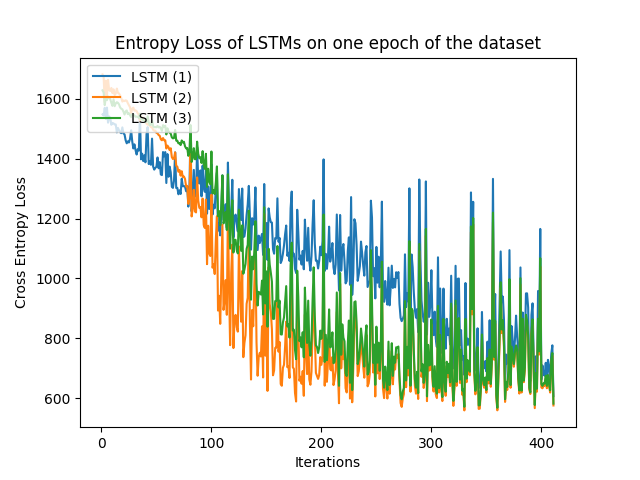
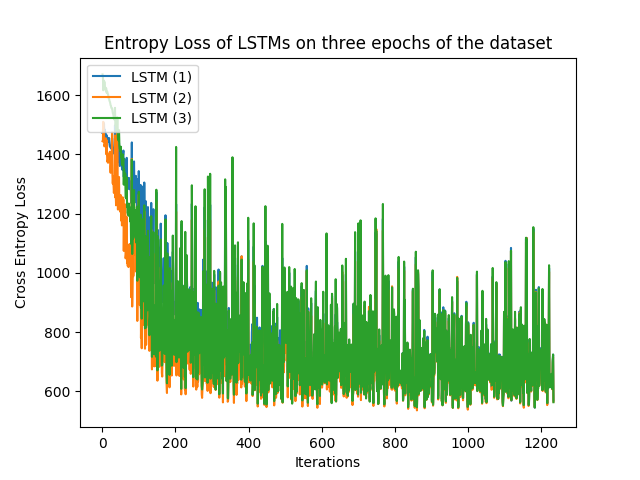
experiments with 3 epochs

diff --git a/lstm2.py b/lstm2.py
@@ -47,7 +47,7 @@ hidden2 = (autograd.Variable(torch.randn(1, 1, 9)),
 
 loss = 0
 loss_array = []
-for epoch in xrange(1):
+for epoch in xrange(3):
 	# Note: reset loss such that doesn't accumulate after each epoch
 	for sequence in xrange(len(train)):
 		inputs = [Variable(torch.Tensor(x)) for x in train[sequence][0]]
@@ -68,3 +68,4 @@ for epoch in xrange(1):
 
 np.save('lstm2_loss.npy',loss_array)
 print 'Done 2'
+torch.save(model.state_dict(), "lstm2.model")

diff --git a/lstm3.py b/lstm3.py
@@ -53,7 +53,7 @@ hidden3 = (autograd.Variable(torch.randn(1, 1, 9)),
 
 loss = 0
 loss_array = []
-for epoch in xrange(1):
+for epoch in xrange(3):
 	# Note: reset loss such that doesn't accumulate after each epoch
 	for sequence in xrange(len(train)):
 		inputs = [Variable(torch.Tensor(x)) for x in train[sequence][0]]
@@ -75,3 +75,4 @@ for epoch in xrange(1):
 
 np.save('lstm3_loss.npy',loss_array)
 print 'Done 3'
+torch.save(model.state_dict(), "lstm3.model")

diff --git a/graph.py b/graph.py
@@ -11,6 +11,6 @@ plt.plot(xrange(1, len(loss1) + 1), loss1, xrange(1, len(loss2) + 1), loss2, xra
 plt.legend(['LSTM (1)' , 'LSTM (2)', 'LSTM (3)'], loc='upper left')
 plt.xlabel('Iterations')
 plt.ylabel('Cross Entropy Loss')
-plt.title('Entropy Loss of LSTMs on one epoch of the dataset')
+plt.title('Entropy Loss of LSTMs on three epochs of the dataset')
 plt.show()
 plt.savefig('result3.png')

diff --git a/lstm.py b/lstm.py
@@ -56,7 +56,7 @@ loss = 0
 
 loss_array = []
 
-for epoch in xrange(1):
+for epoch in xrange(3):
 	#l = 0
 	# Note: reset loss such that doesn't accumulate after each epoch
 	for sequence in xrange(len(train)):
@@ -79,4 +79,4 @@ for epoch in xrange(1):
 
 np.save('lstm1_loss.npy',loss_array)
 print 'Done 1'
-
+torch.save(model.state_dict(), "lstm1.model")
